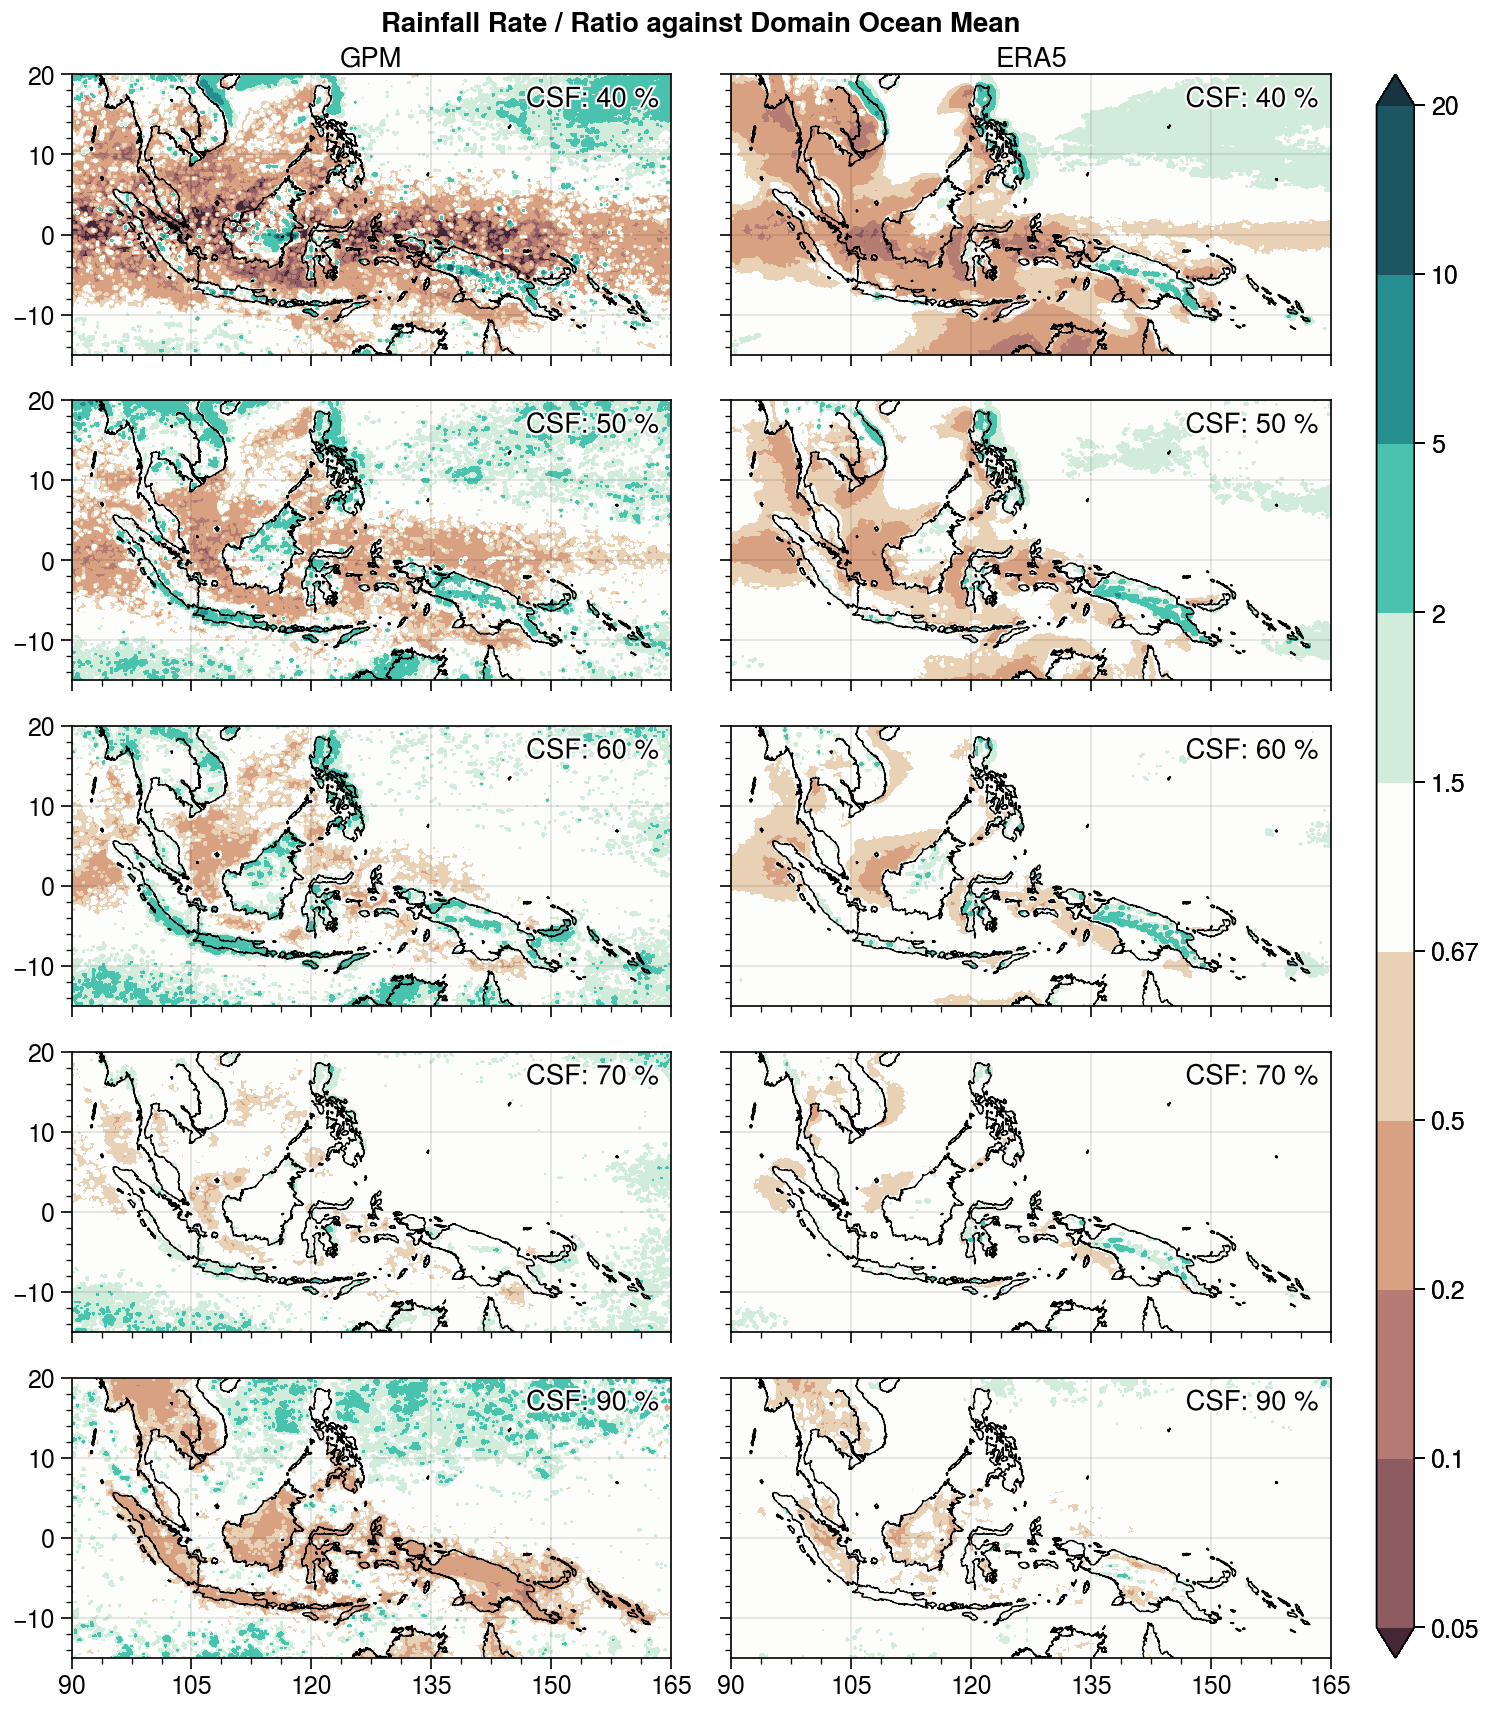
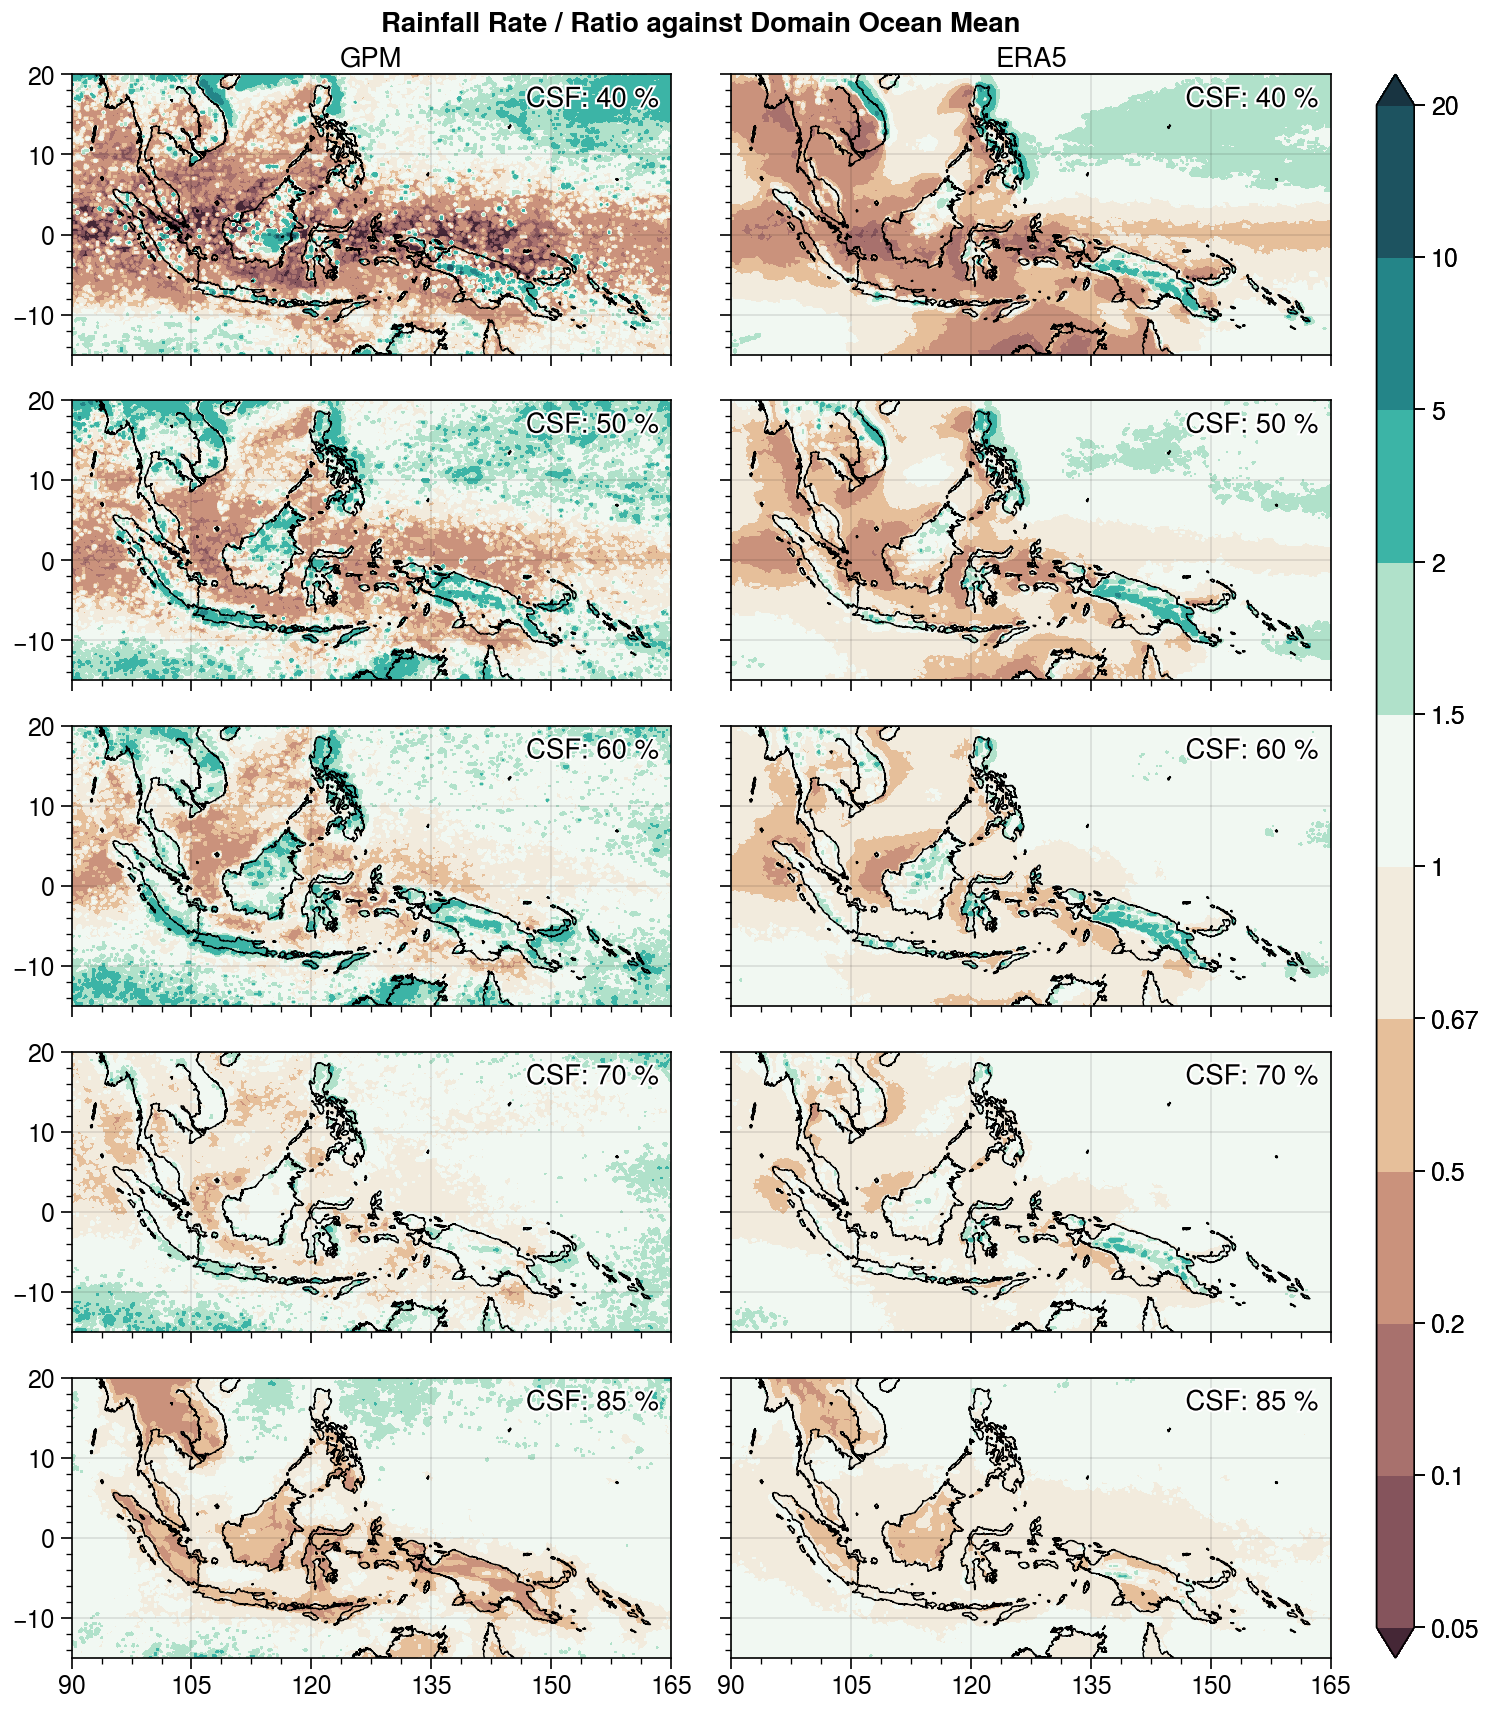
Updating figures and README

diff --git a/README.md b/README.md
@@ -110,19 +110,37 @@ For Column Saturation Fraction (CSF) values which, in the plot above, have a pro
 
 We see that there is a noticeable difference in the relationship between precipitation rate and column-saturation fraction over land and sea.  This difference is seen when GPM IMERG precipitation is used, but is much less noticeable (except at lower CSF) in ERA5.  From GPM-IMERG, it can be seen that the relationship between CSF and rainfall rate is weaker on land compared to over the ocean, such that at high CSF, the rainfall rate is lower.  For mid-saturation levels of CSF (50-60%), we see that rainfall is slightly higher over land than on ocean.
 
-We also investigate the spatial distribution of average rainfall rate for four different values of CSF: 25%, 50%, 75% and 90%, as a ratio of the domain-averaged rainfall over all ocean grid-points.
+We also investigate the spatial distribution of average rainfall rate for five different values of CSF: 40%, 50%, 60%, 70% and 85%, as a ratio of the domain-averaged rainfall over all ocean grid-points.
 
 ![CSFspatial](figures/csfspatial-ratio.png)
 
 It is immediately apparent that at 50-60% CSF, rainfall over the islands of the Maritime Continent is noticeably enhanced compared to the surrounding ocean.  However, at a CSF of 90%, rainfall over the islands is noticeable lower than the surrounding seas.  Lastly, we also see that rainfall over the ocean near the equator is noticeably lower than rainfall rates as one moves polewards towards the subtropics.  It remains to be seen if this is due to the presence of islands, as opposed to this being a latitude effect.
 
-## 3. Mean Climatology of Column Saturation Fraction in the Maritime Continent
+## 3. Climatology of Column Saturation Fraction in the Maritime Continent
+
+### A. Mean Climatology
 
 The mean climatology of column saturation fraction is largely as expected, with CSF being highest over land in the Maritime Continent, and near the equator, with gradual decrease as one moves polewards.  However, the same cannot be said for intraseasonal and seasonal variability.  Indeed, although it is expected that seasonal variability would be lower closer to the equator, we see that intraseasonal variability also decreases near the equator, which is interesting because of phenomenon like the Madden-Julian Oscillation that alternatively crosses over the Maritime Continent with wet and dry phases.
 
 ![CSFspatial](figures/csf.png)
 
 The most distinct feature, however, is the diurnal cycle of CSF, which is greatly confined to over land, and especially over the Maritime Continent in the deep tropics.  It remains to be seen if this high variability is present over all land areas in the tropics, or if this region is specific to the Maritime Continent.
+
+### B. Monthly / Seasonal Climatology
+
+The seasonal variability of monthly-mean CSF is very similar to that from rainfall. Furthermore, we see that the amplitude of diurnal variability also seems to follow this seasonal trend, though of course the amplitude is greater over land than over the ocean most of the time.  We also see that CSF variability is generally higher over regions with complex topography compared to the coastlines.
+
+![CSFspatial](figures/csf-monthly.gif)
+
+## 4. Seasonal Cycle of CSF-Precipitation Rate relationship
+
+Another part of this project is to investigate the seasonal cycle of the CSF-precipitation relationship.
+
+![CSFspatial](figures/PCcurve-monthly.gif)
+
+We see that despite seasonal fluctuations in GPM precipitation rate when CSF ranges from 40-70%, the weaker relationship between CSF and precipitation rate over land never truly vanishes.  Furthermore, the relationship between CSF and precipitation rates at high column saturation fraction (>75%), never really changes significantly, and precipitation rates over the ocean at high CSF are higher (by maybe 2-3x) than over land.  This relationship is only noted in GPM IMERG observations.  We see that in ERA5, the relationship between CSF and rainfall rate over land and sea is very similar for high CSF, which implies that there are errors in our assumptions about the similarity of convective dynamics over land and ocean when the atmosphere is moist.
+
+We also plot the spatial evolution of 
 
 ## Installation
 
